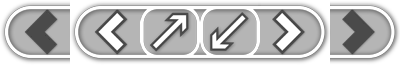
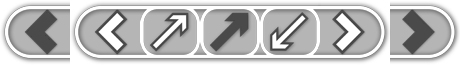
Updated navbtns.png and css ready for disabled maximise button when image fits screen
git-svn-id: http://picboxjs.googlecode.com/svn/trunk@15 fcdbf19e-f2a5-11de-9a6a-9d1f184cc70b

diff --git a/css/picbox.css b/css/picbox.css
@@ -8,7 +8,7 @@
 	height: 100%;
 }
 
-#pbOverlay, #pbCloseBtn, #pbImage, #pbBottom {
+#pbContainer > * {
 	position: absolute;
 }
 
@@ -58,11 +58,11 @@
 #pbCaption {
 	font-weight: bold;
 	padding: 4px;
+	display: inline-block;
+	*display: inline; /* IE 7 */
 	background-color: rgba(0,0,0,0.7);
 	filter:progid:DXImageTransform.Microsoft.Gradient(GradientType=0, StartColorStr=#B0000000, EndColorStr=#B0000000);
 	zoom: 1;
-	display: inline-block;
-	*display: inline; /* IE 7 */
 }
 
 #pbNav {
@@ -72,7 +72,7 @@
 	margin-top: 5px;
 }
 
-#pbPrevBtn, #pbNextBtn, #pbZoomBtn {
+#pbNav > * {
 	display: inline-block;
 	width: 70px;
 	height: 65px;
@@ -91,12 +91,12 @@
 }
 
 #pbNextBtn {
-	background-position: -260px 0;
+	background-position: -320px 0;
 	float: right;
 }
 
 #pbNextBtn.greyed {
-	background-position: -330px;
+	background-position: -390px;
 }
 
 #pbZoomBtn {
@@ -106,7 +106,7 @@
 }
 
 #pbZoomBtn.zoomed {
-	background-position: -200px 0;
+	background-position: -260px 0;
 }
 
 /* END PICBOX */
